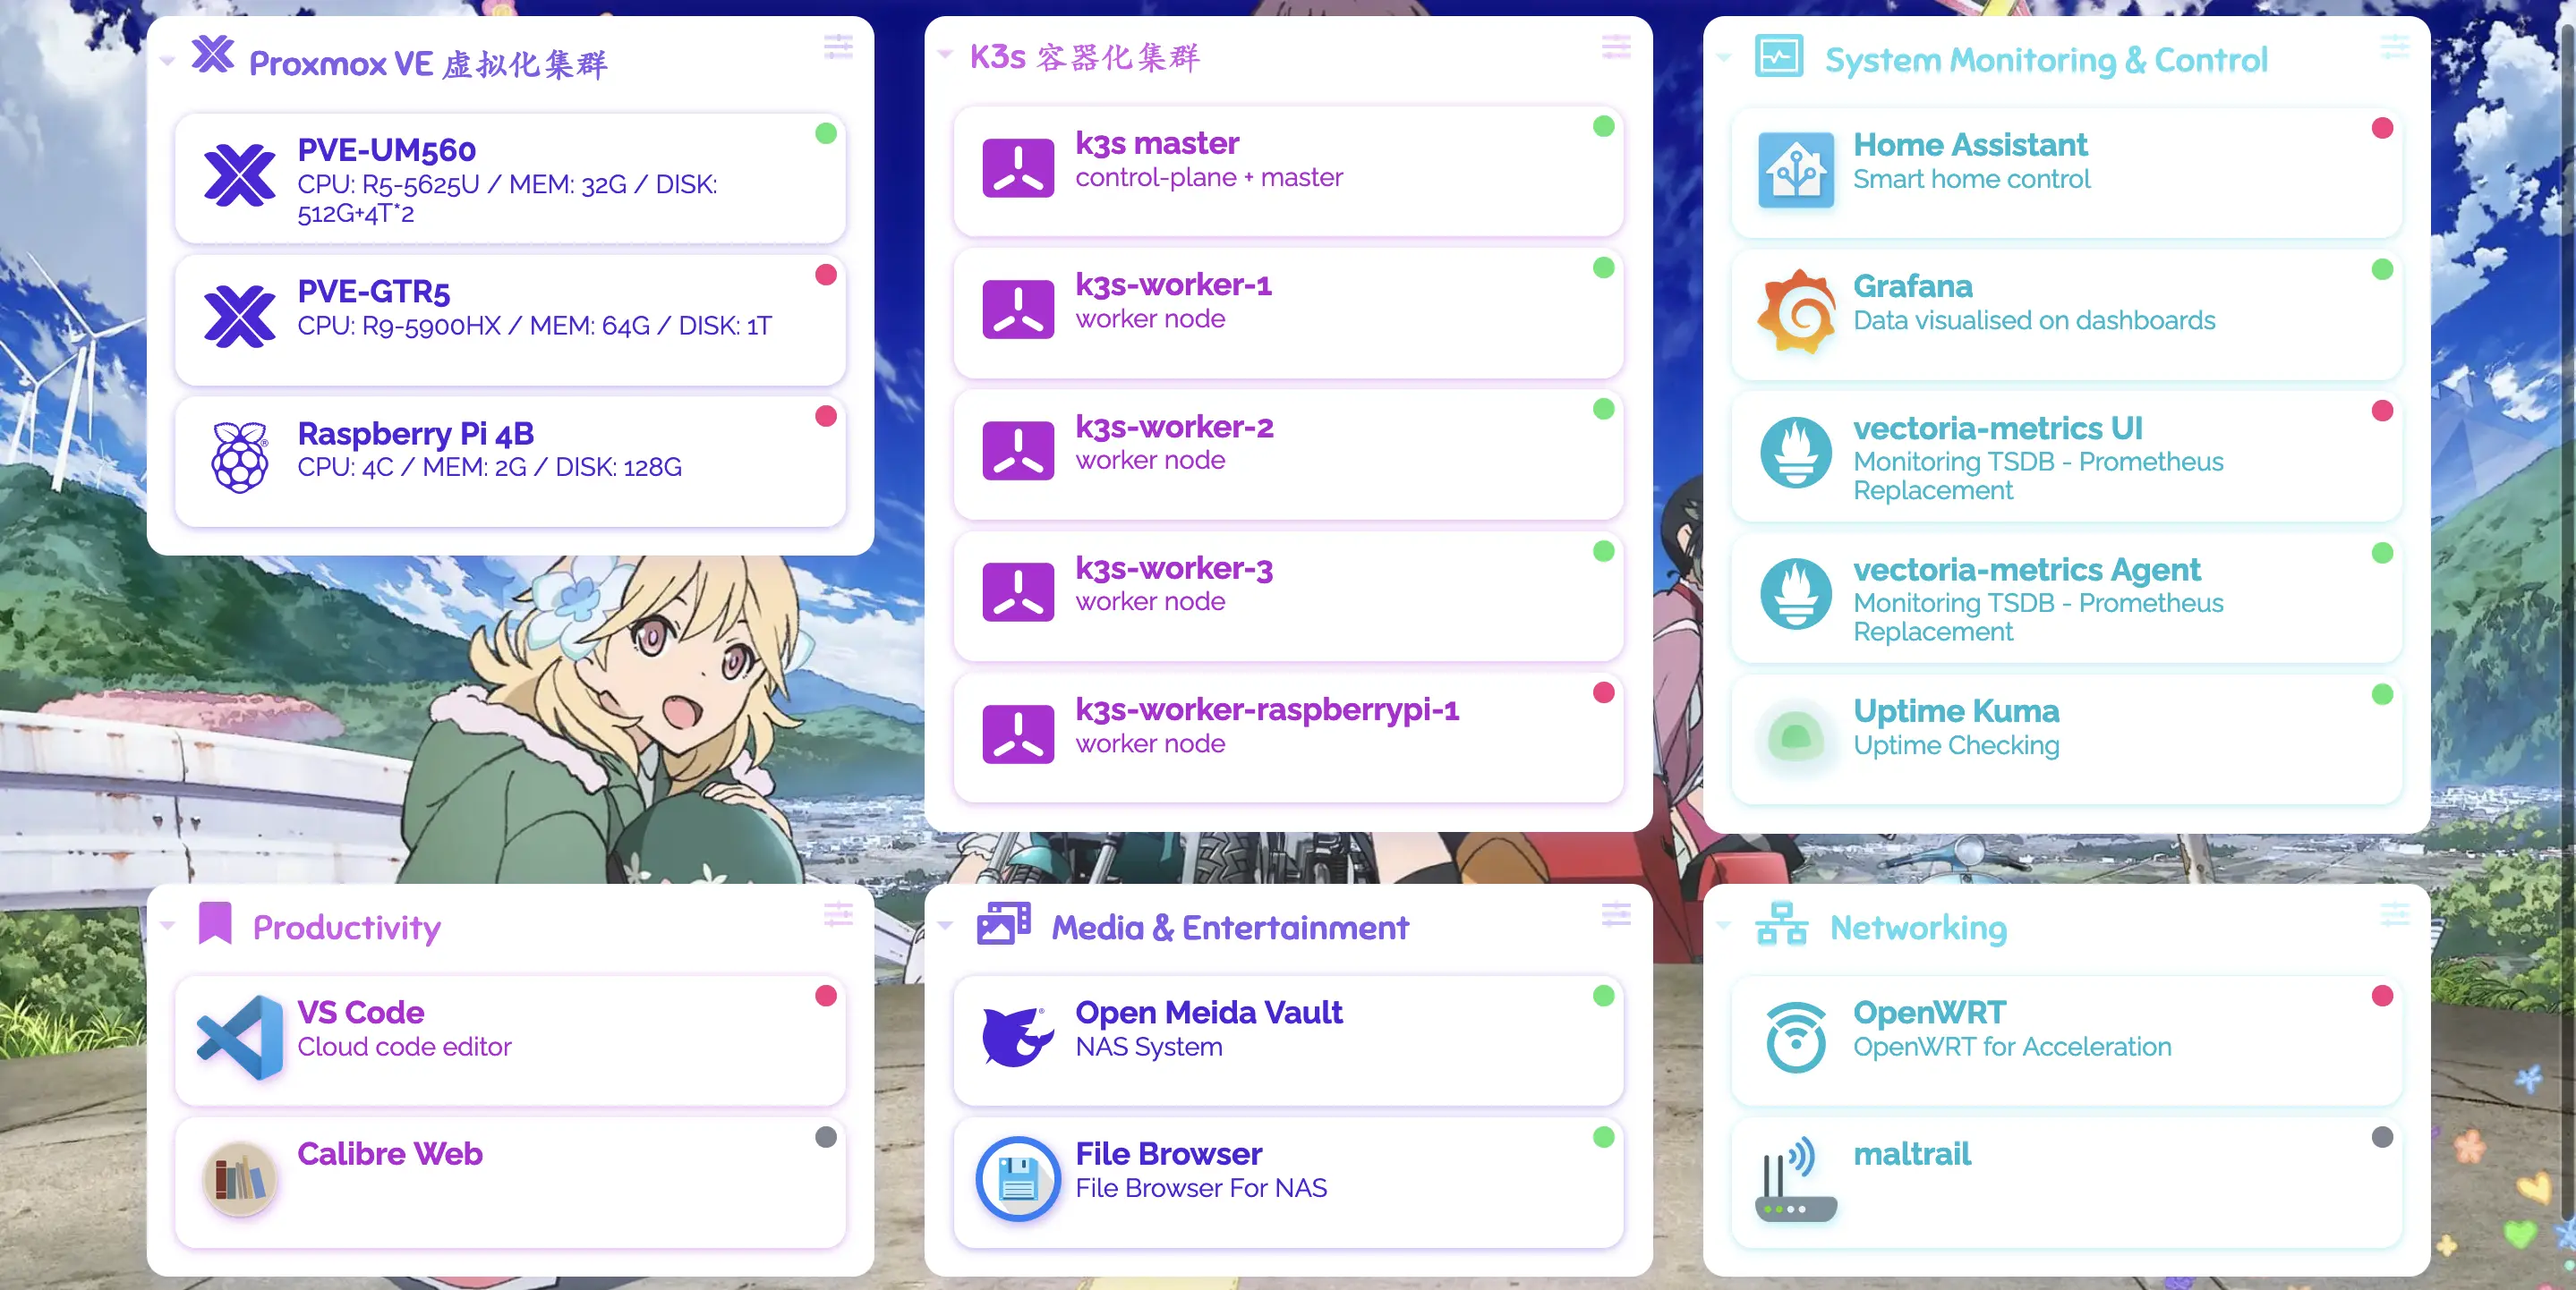
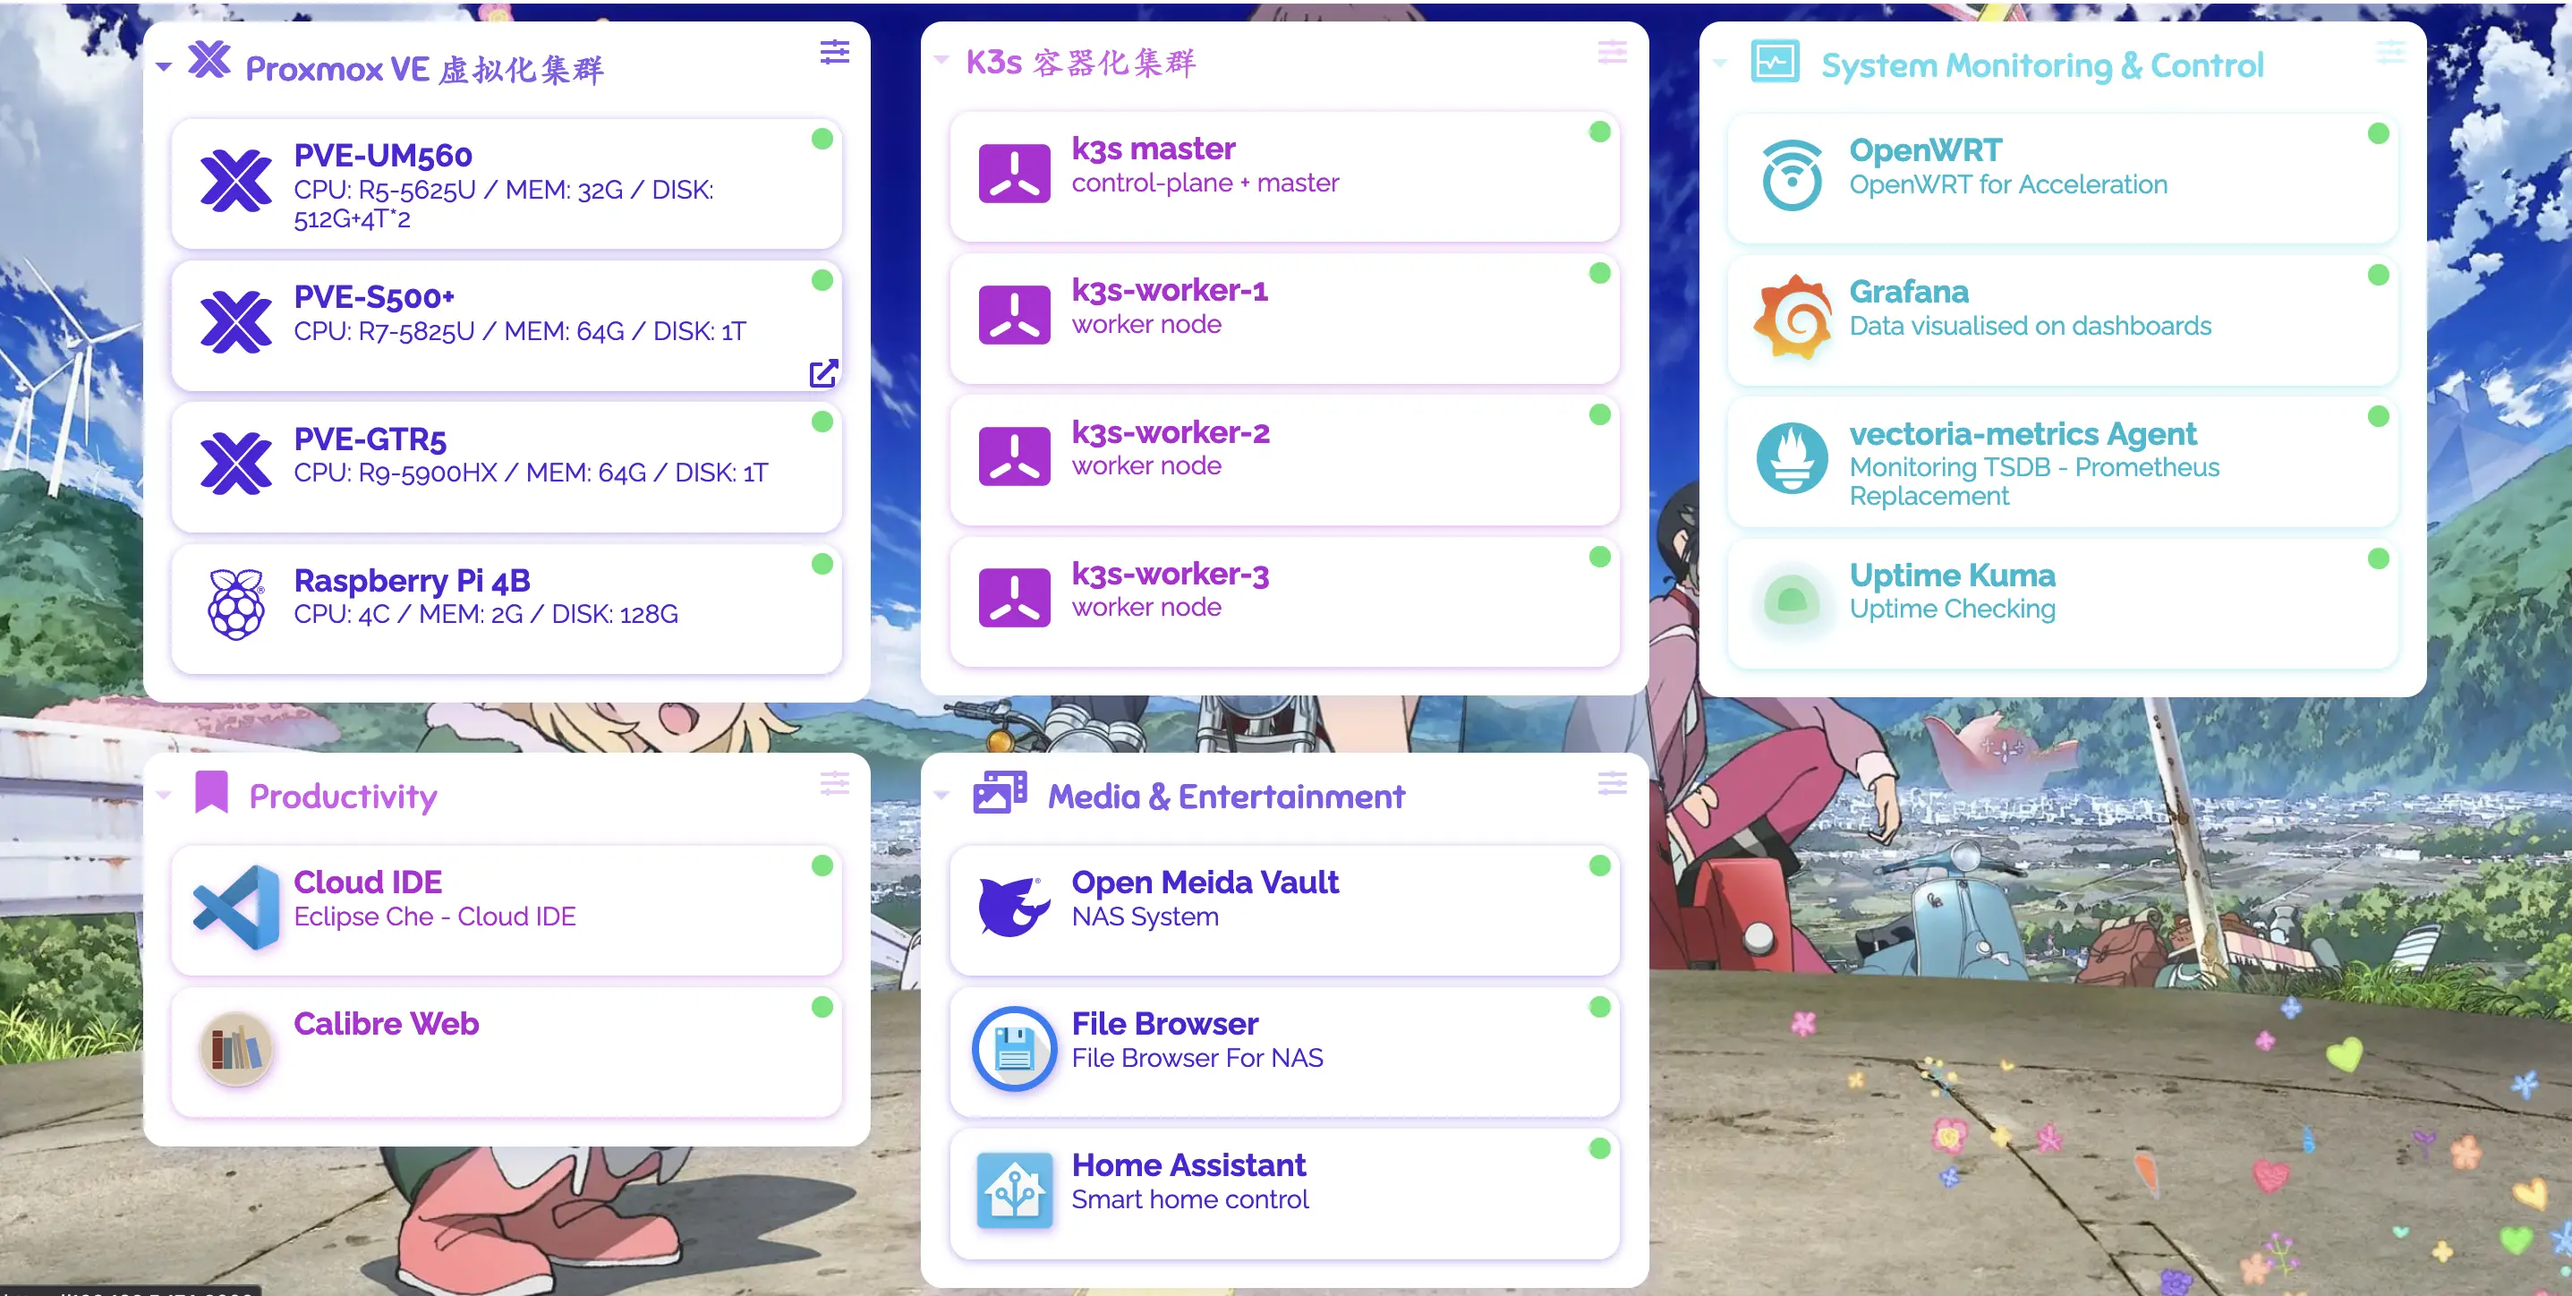
feat: homelab

diff --git a/homelab/README.md b/homelab/README.md
@@ -17,7 +17,7 @@
 
 ```mermaid
 graph TD
-  WAN[WAN 公网] <-- 1GbE -->edge_router
+  WAN[WAN - 电信 1000M 宽带] <-- 1GbE / 端口受限型 NAT -->edge_router
 	edge_router <-- 2.5GbE --> PVE-Node2
   edge_router[ZTE AX5400Pro+] <-- 2.5GbE --> PVE-Node1
 
@@ -46,23 +46,22 @@ graph TD
 
 ## 软件架构
 
-![](_img/dashy-homepage.webp "Homelab 面板 2022-11-14")
+![](_img/dashy-homepage.webp "Homelab 面板 2022-11-24")
 
 - Minisfroum UM560
   - OS: Proxmox VE
   - VMs
-    - Envoy Proxy Server: 1c/1G 32G
-      - 边缘网关，设为 DMZ 主机面向公网提供访问
-      - 注：选择 envoy 单纯是为了熟悉 envoy 的使用，没这需求的建议用 traefik/caddy，更简单好用
+    - tailscale-gateway 1c/1G
+      - tailscale 在家里的路由节点，以 `Subnet router` 模式运行，这样就能在任意 tailscale 节点上访问家里的 homelab 跟 NAS 啦~
     - OpenMediaVault: 2c/8G 32G
       - 硬盘盒 Sata 直通到此虚拟机，作为家庭 NAS 系统，提供 SMB/SFTP/ISCSI 等局域网 NAS 服务
       - 也通过 docker-compose 运行一些需要访问硬盘盒数据的其他服务，比如
         - [filebrowser](https://github.com/filebrowser/filebrowser): 文件浏览器，支持查看、上传、下载
-        - [jellyfin](https://github.com/jellyfin/jellyfin) 影音系统
-        - [calibre-web](https://github.com/janeczku/calibre-web) 私有电子书系统，不再需要在每台设备之间同步各种电子书了。
-    - OpenWRT: 2c/1G 2G - host CPU
+        - [jellyfin](https://github.com/jellyfin/jellyfin): 影音系统
+        - [calibre-web](https://github.com/janeczku/calibre-web): 私有电子书系统，不再需要在每台设备之间同步各种电子书了。
+    - OpenWRT: 1c/1G 2G - host CPU
       - 作为软路由系统，实现网络加速、DDNS 等功能
-      - 安装 openclash、广告拦截插件、tailscale-vpn 等
+      - 安装 openclash、广告拦截插件
     - k3s single master 2c/4G 32G
       - 家庭网络，单 master 就够用了，省点性能开销
     - k3s worker node 4c/8G 32G * 2
@@ -70,7 +69,10 @@ graph TD
       - 跑各种其他 k8s 实验负载
     - docker-compose server 1c/2G 32G
       - 用于跑一些不需要访问硬盘盒，但是需要常驻的容器化应用
-      - programming toolbox 自托管版
+      - Envoy Gateway: 作为局域网所有小站点的网关（选择 envoy 单纯是为了熟悉 envoy 的使用）
+      - [uptime-kuma](https://github.com/louislam/uptime-kuma): 站点可访问性检测
+      - [dashy](https://github.com/lissy93/dashy) HomePage 页
+        - 在安装了如此多的自托管服务后，一个用于索引所有服务的 Homepage 就显得非常有必要了
       - [actionsflow](https://github.com/actionsflow/actionsflow): 完全兼容 Github Action 的自托管 workflow 服务
       - [excalidraw](https://github.com/excalidraw/excalidraw): 自托管白板项目
     - Home Assistant 2c/2G
@@ -101,24 +103,42 @@ graph TD
 
 k3s 集群里可以跑这些负载：
 
-- 数据库：etcd/mysql/postgresql/presto/minio
-- 可观测性：prometheus + vectoriametrics + grafana
-- [uptime-kuma](https://github.com/louislam/uptime-kuma): 站点可访问性检测
-- [dashy](https://github.com/lissy93/dashy) HomePage 页
-  - 在安装了如此多的自托管服务后，一个用于索引所有服务的 Homepage 就显得非常有必要了
+- 数据库：etcd/mysql/postgresql/minio/redis
+- 可观测性：
+  - 监控：vectoriametrics + grafana
+  - 日志：loki + promtail + grafana
+- 证书管理：cert-manager
+- 集群网咯：cilium
+- 服务网格：istio
+- 多集群管理：karmada
+- 配置部署与同步：argo-cd
+- CICD: argo-workflows/tekton
+- serverless: keda + dapr + knative + openfunction
+  - 这一套方案集成了很多 serverless 的前沿技术，玩一玩能学到很多东西
+- 本地镜像仓库: harbor
+- 镜像分发：[dragonfly](https://github.com/dragonflyoss/Dragonfly2)
+  - 为了省点代理流量，也提升大镜像的拉取速度，有必要给 K3s 安装一个 dragonfly 搞局域网的镜像分发
+- 集群安全策略: kyverno
+- 等等
 
 局域网有了总共 22C44T CPU + 160G RAM 的算力后（必要时还能把我的联想笔记本也加入到集群， 再补充 8C16T CPU + 16G RAM +  Nvidia RTX 3070 GPU），已经可以直接在局域网玩一些需要高算力的任务了，比如说：
 
 - 大数据
-  - spark on k8s
-  - apache pulsar on k8s
-  - flink on eks
-  - redis cluster
+  - [airbyte](https://github.com/airbytehq/airbyte) 数据管道
+  - [alluxio](https://github.com/Alluxio/alluxio) 统一的数据存储接口
+  - Presto SQL 查询引擎，可对接多种数据源
+  - [doris](https://github.com/apache/doris) 高性能实时数仓（OLAP 分析型关系数据库）
+  -  分布式消息发布与订阅系统
+    - apache pulsar on k8s: 对标 kafka，专为高吞吐量、低延迟、快速(或至少表现均匀)的消费者而设计，不适合 RPC
+    - NATS on k8s: 一个轻量级的云原生消息系统，高性能、低功耗、体积小，跟 redis 一样适合较小的消息。
+  - spark on k8s 离线数据分析
+  - flink on eks 实时数据分析
+  - superset 数据可视化平台
 - 区块链
   - 自建区块链集群
 
 
-还可以去 [awesome-selfhosted](https://github.com/awesome-selfhosted/awesome-selfhosted) 翻翻有没有自己感兴趣的项目。
+除了上面这些，还可以去 [awesome-selfhosted](https://github.com/awesome-selfhosted/awesome-selfhosted) 跟 [CNCF Landscape](https://landscape.cncf.io/) 翻翻有没有自己感兴趣的项目。
 
 ## 功耗测量
 
@@ -174,8 +194,12 @@ k3s 集群里可以跑这些负载：
 
 | 设备名称 | 购入时间 | 翻车时间 | 购入渠道 | 价格 | 说明 |
 | :---: | :---: | :---: | :---: | :---: | :---: | 
-| 光威 SSD - 弈Pro 1T           | 2021-06-08 | 2022-11-13 | 京东自营    | ￥819 |本来是给 Windows 游戏机用的，换到 GTR5 上没跑几天就掉盘了（`nvme0: Device not ready; aborting reset`），京东售后给办理了 9 折退款（还好没存啥重要数据） |
+| 光威 SSD - 弈Pro 1T           | 2021-06-08 | 2022-11-13 | 京东自营    | ￥819 | 之前给 Windows 游戏机用了一年多，然后换到 GTR5 上没跑几天就掉盘了（`nvme0: Device not ready; aborting reset`），京东售后给办理了 9 折退款（还好没存啥重要数据） |
 
+总的来说，目前 Homelab 三台 mini 主机算上固态内存，花了接近 1W。
+跟朋友对比了下，如果花差不多的钱买机架服务器，可以买到这个配置：`48C96T(2696v3 * 2) + 512G(32g * 16) + 9.6T(1.2T * 8)`
+配置差别还是有点大的，不过胜在静音 + 低功耗 + 不占空间 + 发热小，对于小租房而言也算是不错的选择。
+具体是要机架服务器还是 mini 主机，还是看个人需求吧。
 
 ## 数据备份与同步策略
 
@@ -186,9 +210,28 @@ k3s 集群里可以跑这些负载：
 
 ## 远程访问
 
-打算用下面这个：
+前面提过了，使用的方案是 [Tailscale VPN](https://github.com/tailscale/tailscale)，它是一个基于 wireguard 的家庭 VPN，安装非常简单，基本傻瓜式操作。
 
-- [Tailscale VPN](https://github.com/tailscale/tailscale): 基于 wireguard 的家庭 VPN
+在 Homelab 上跑了一个 [tailscale-gateway](https://tailscale.com/kb/1019/subnets/) 作为 homelab 的入口节点，这样无论在哪，我的 Android、Macbook 等
+设备都可以无缝接入 Homelab~
+
+注意 MacOS/Linux 等终端设备需要使用如下命令启动 tailscale，这样才能自动添加 Homelab 相关的路由，而 Android 设备实测会自动添加相关路由规则:
+
+```shell
+tailscale up --accept-routes
+```
+
+以及，使用如下命令可以检查确认节点是直连（`direct`）还是中继（`DERP relay`），如果显示为中继，说明 NAT 或防火墙规则比较严格，导致难以直连，这会导致延迟明显上升、带宽下降！
+
+```shell
+# 查看当前所有节点的状态
+tailscale status
+
+# 检测到某个 ip 地址 / hostname 是否直连
+tailscale ping <hostname-or-ip>
+```
+
+另外安全起见，虽然已经取得了公网 IP，暂时仍未启用任何面向公网的 Web 服务，仅将路由器 NAT 类型设为了「端口受限型」（未改为「全锥型」）。
 
 ## 监控告警
 
